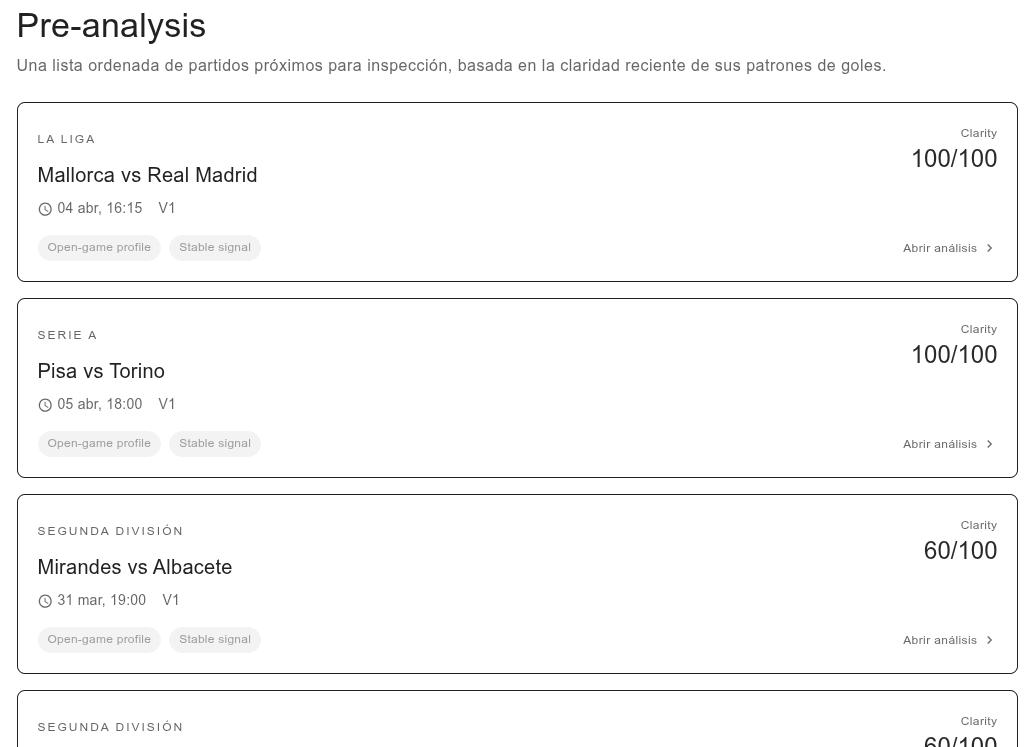
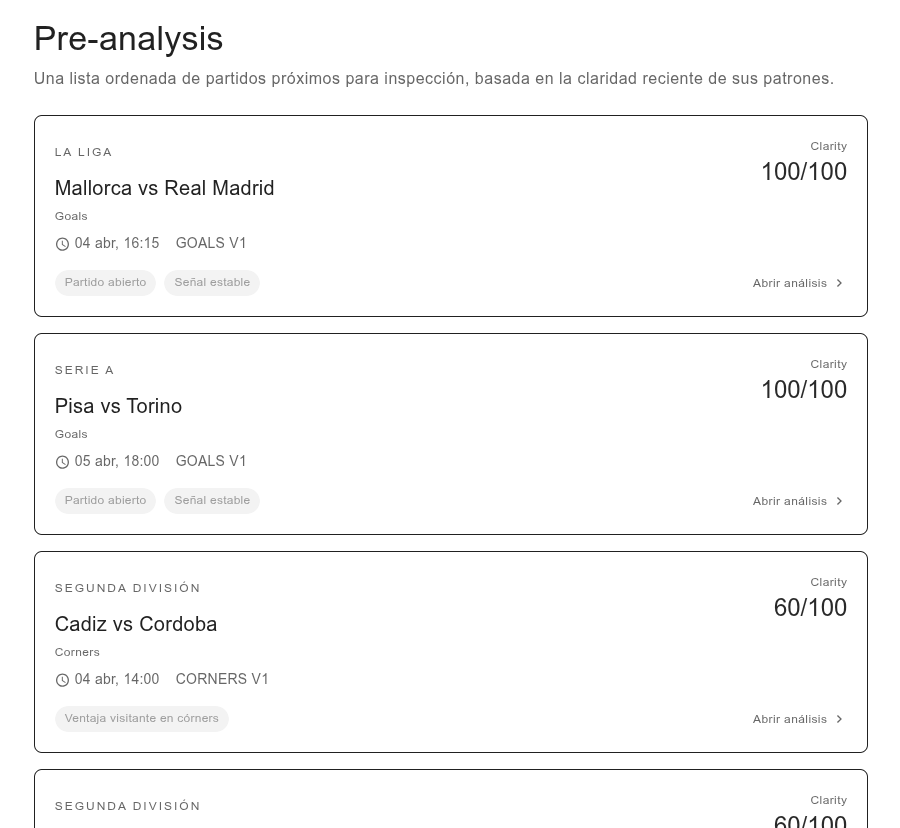
docs(readme): update pre-analysis section to reflect multi-signal discovery (Goals + Corners)

diff --git a/README.md b/README.md
@@ -223,7 +223,7 @@ Web application focused on discovering, exploring, and comparing sports data, co
 
 ### Pre-analysis — Discovery layer
 
-Ranked view of upcoming fixtures designed to surface analytically interpretable matches based on recent goal patterns. It acts as an entry point into the analytical workflow, allowing users to move from initial discovery into deeper inspection through the comparator.
+Ranked view of upcoming fixtures designed to surface analytically interpretable matches based on recent patterns across multiple analytical signals. It acts as an entry point into the analytical workflow, allowing users to move from initial discovery into deeper inspection through the comparator.
 
 <img src="docs/images/frontend/pre-analysis/pre-analysis-page.png" width="95%" />
 
@@ -231,7 +231,7 @@ Ranked view of upcoming fixtures designed to surface analytically interpretable 
 
 #### What it does
 
-- Ranks upcoming fixtures by the clarity of their recent goal distributions.
+- Ranks upcoming fixtures by the clarity of recent statistical patterns.
 - Identifies profile patterns such as open-game vs low-scoring match dynamics.
 - Evaluates signal stability to distinguish more robust readings from more fragile ones.
 - Provides a direct handoff into the comparator for deeper inspection.
@@ -240,7 +240,7 @@ Ranked view of upcoming fixtures designed to surface analytically interpretable 
 
 - This layer is not predictive.
 - It does not forecast outcomes or recommend decisions.
-- It helps identify where the available data appears more structured and analytically interpretable.
+- It helps identify where the available analytical signals appear more structured and analytically interpretable.
 - It serves as a discovery and prioritization tool within the broader analytical workflow.
 
 ---
